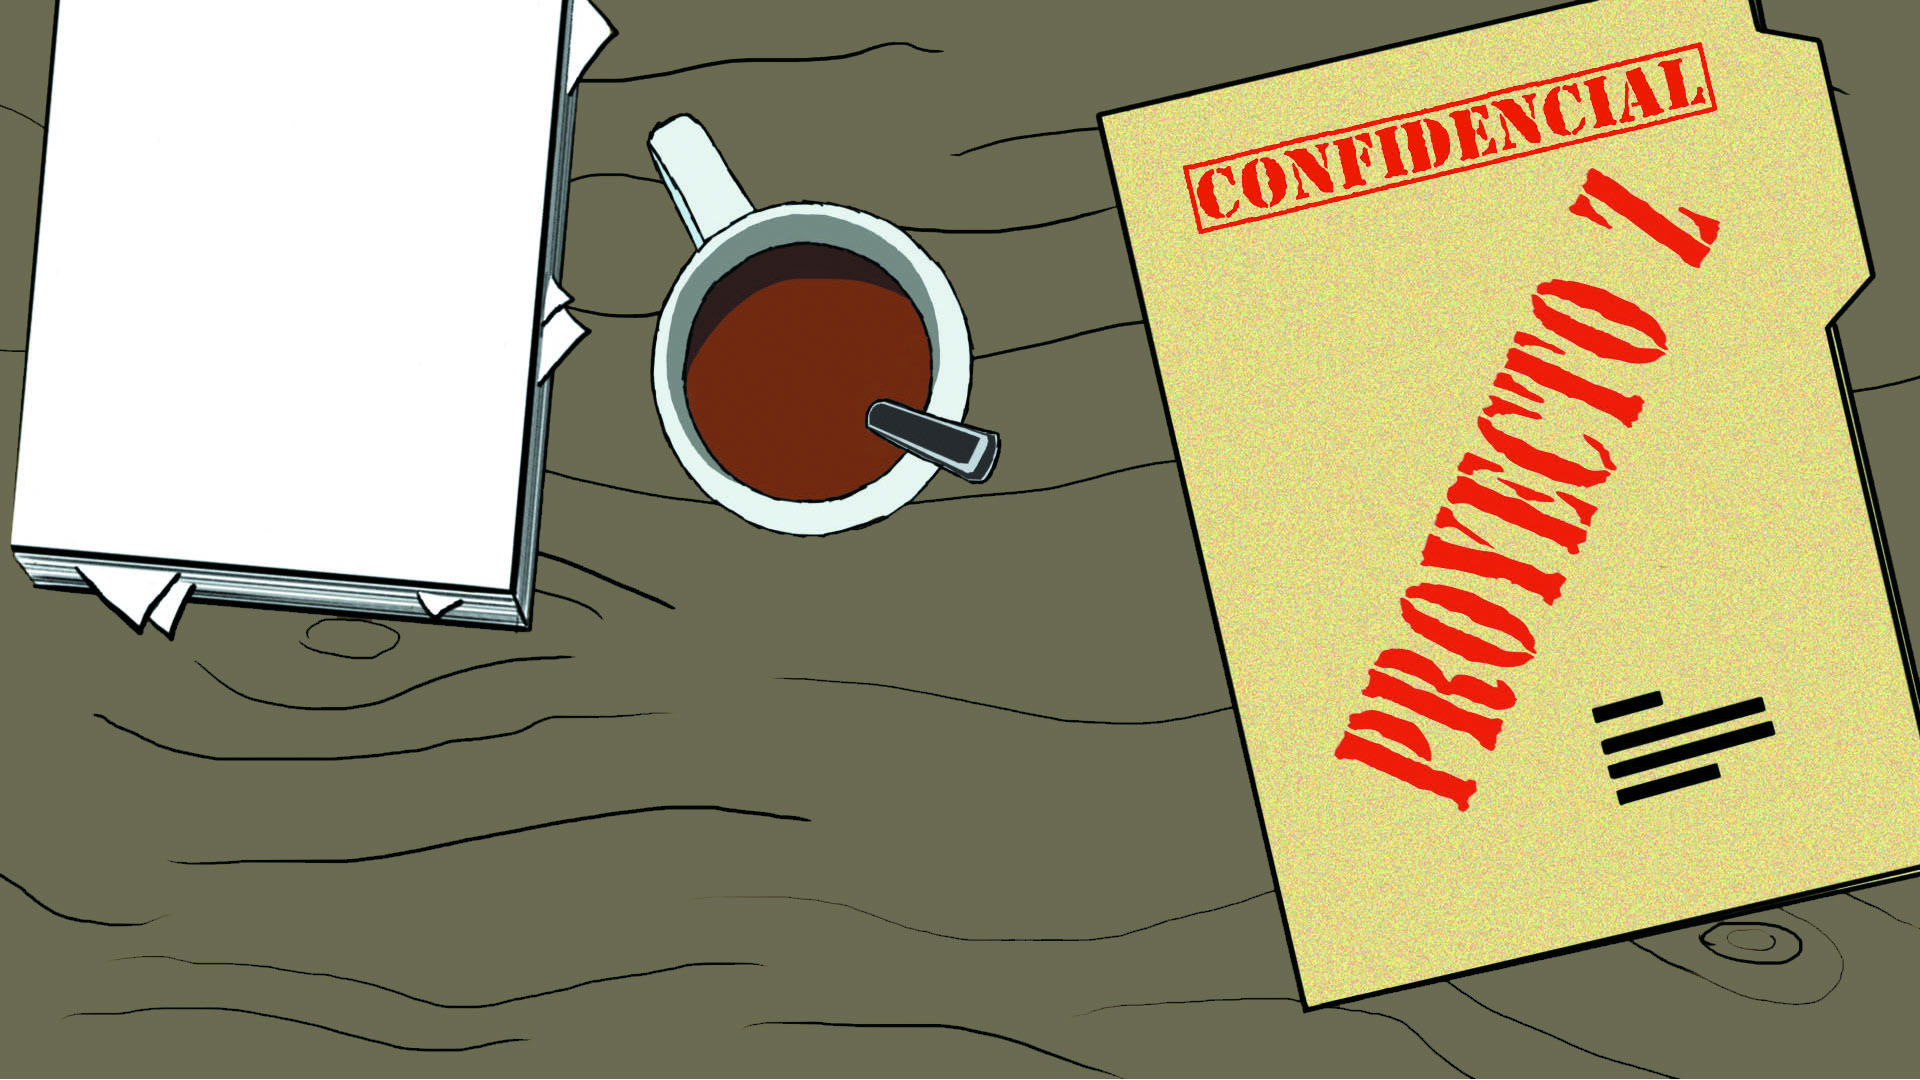
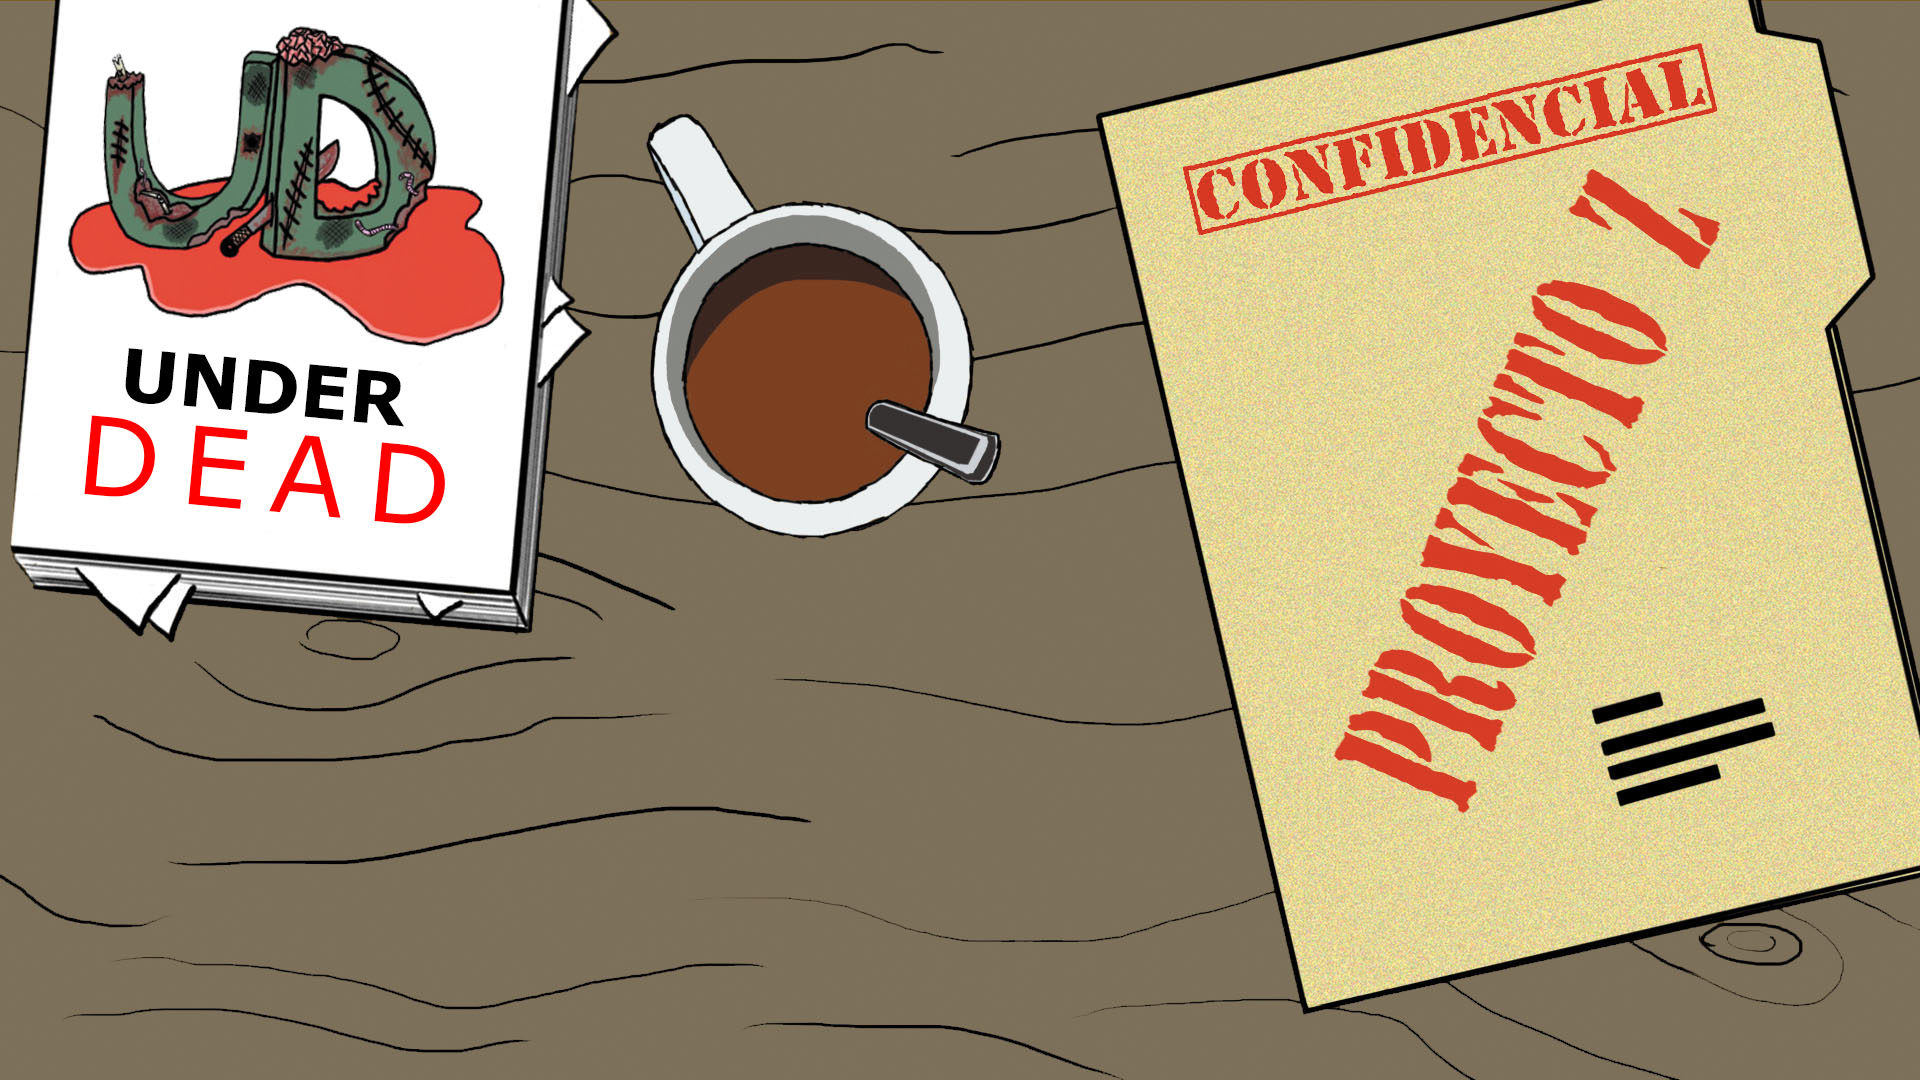
Actualizadas algunas cosillas del menu principal.

diff --git a/ProjectZ/ProjectZ/Assets/BlinkMenu.cs b/ProjectZ/ProjectZ/Assets/BlinkMenu.cs
@@ -1,0 +1,30 @@
+using System.Collections;
+using System.Collections.Generic;
+using UnityEngine;
+using UnityEngine.UI;
+
+public class BlinkMenu : MonoBehaviour {
+
+    private Image img;
+    private float timer;
+    private bool active;
+
+	// Use this for initialization
+	void Start () {
+        active = true;
+        timer = 0;
+        img = GetComponent<Image>();
+	}
+	
+	// Update is called once per frame
+	void Update () {
+        if(timer > 0.5f){
+            active = !active;
+            img.enabled = active;
+            timer = 0;
+        }
+        timer += Time.deltaTime;
+
+        if (Input.anyKey) Destroy(gameObject);
+	}
+}
